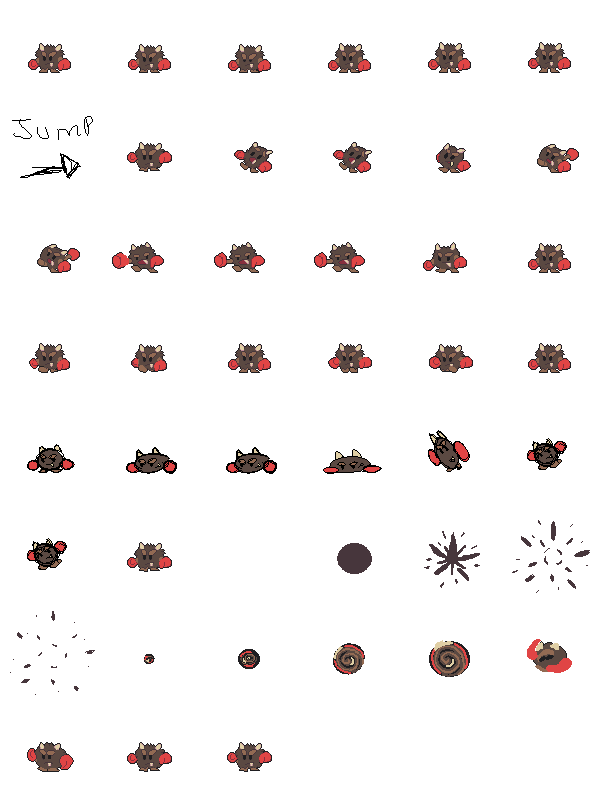
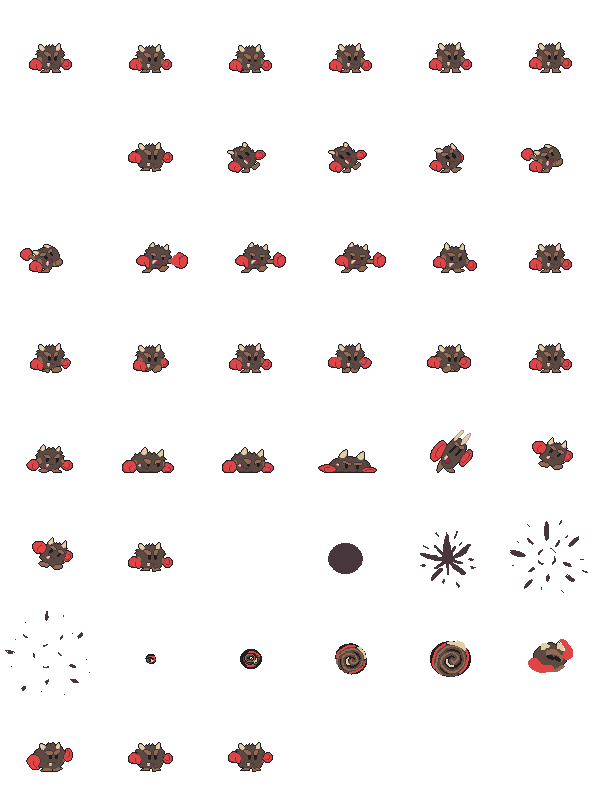
Add imp enemy IA

diff --git a/MonoGameJam1/Components/Battle/Enemies/EnemyImpComponent.cs b/MonoGameJam1/Components/Battle/Enemies/EnemyImpComponent.cs
@@ -9,6 +9,12 @@ using MonoGameJam1.FSM;
 
 namespace MonoGameJam1.Components.Battle.Enemies
 {
+    public enum ImpVelocity
+    {
+        Normal,
+        Fast
+    }
+
     public class EnemyImpComponent : EnemyComponent, ISpawnableEnemy
     {
         //--------------------------------------------------
@@ -72,12 +78,44 @@ namespace MonoGameJam1.Components.Battle.Enemies
             sprite.CreateAnimation("punch", 0.09f);
             sprite.AddFrames("punch", new List<Rectangle>
             {
+                new Rectangle(400, 100, 100, 100),
+                new Rectangle(500, 100, 100, 100),
                 new Rectangle(0, 200, 100, 100),
                 new Rectangle(100, 200, 100, 100),
                 new Rectangle(200, 200, 100, 100),
                 new Rectangle(300, 200, 100, 100),
                 new Rectangle(400, 200, 100, 100),
                 new Rectangle(500, 200, 100, 100),
+            });
+
+            sprite.CreateAnimation("jumpAttack", 0.09f, false);
+            sprite.AddFrames("jumpAttack", new List<Rectangle>
+            {
+                new Rectangle(0, 400, 100, 100),
+                new Rectangle(100, 400, 100, 100),
+                new Rectangle(200, 400, 100, 100),
+                new Rectangle(300, 400, 100, 100),
+                new Rectangle(400, 400, 100, 100),
+                new Rectangle(0, 500, 100, 100),
+                new Rectangle(100, 500, 100, 100),
+            });
+            sprite.AddAttackCollider("jumpAttack", new List<List<Rectangle>>
+            {
+                new List<Rectangle>(),
+                new List<Rectangle>(),
+                new List<Rectangle>(),
+                new List<Rectangle>(),
+                new List<Rectangle> { new Rectangle(-19, -9, 38, 32) },
+                new List<Rectangle> { new Rectangle(-19, -9, 38, 32) },
+                new List<Rectangle> { new Rectangle(-19, -9, 38, 32) },
+            });
+            sprite.AddFramesToAttack("jumpAttack", 4, 5, 6);
+
+            sprite.CreateAnimation("hit", 0.1f, false);
+            sprite.AddFrames("hit", new List<Rectangle>
+            {
+                new Rectangle(200, 100, 100, 100),
+                new Rectangle(300, 100, 100, 100),
             });
 
             sprite.CreateAnimation("dying", 0.1f, false);
@@ -101,11 +139,16 @@ namespace MonoGameJam1.Components.Battle.Enemies
         public override void onAddedToEntity()
         {
             base.onAddedToEntity();
-            _battleComponent.setHp(3);
+            _battleComponent.setHp(10);
 
             // Change move speed
-            platformerObject.maxMoveSpeed = 3000;
-            platformerObject.moveSpeed = 3000;
+            changeSpeed(ImpVelocity.Normal);
+        }
+
+        public override void onHit(Vector2 knockback)
+        {
+            base.onHit(knockback);
+            FSM.changeState(new EnemyImpHit());
         }
 
         public void GoToSpawnState()
@@ -120,7 +163,23 @@ namespace MonoGameJam1.Components.Battle.Enemies
 
             var velocity = _forceMovement ? _forceMovementVelocity.X : 0.0f;
             if (Math.Abs(velocity) > 0.0001f)
-                sprite.spriteEffects = velocity < 0 ? SpriteEffects.None : SpriteEffects.FlipHorizontally;
+                sprite.spriteEffects = velocity < 0 ? SpriteEffects.FlipHorizontally : SpriteEffects.None;
+        }
+
+        public void changeSpeed(ImpVelocity velocity)
+        {
+            switch (velocity)
+            {
+                case ImpVelocity.Normal:
+                    platformerObject.maxMoveSpeed = 3000;
+                    platformerObject.moveSpeed = 3000;
+                    break;
+                case ImpVelocity.Fast:
+                    platformerObject.maxMoveSpeed = 14000;
+                    platformerObject.moveSpeed = 14000;
+                    break;
+                default: break;
+            }
         }
     }
 }

diff --git a/MonoGameJam1/Components/Battle/Enemies/EnemyImpStates.cs b/MonoGameJam1/Components/Battle/Enemies/EnemyImpStates.cs
@@ -1,13 +1,8 @@
-using System;
-using System.Collections.Generic;
-using System.Linq;
-using System.Text;
-using System.Threading.Tasks;
-using Microsoft.Xna.Framework;
-using MonoGameJam1.Components.Player;
+using Microsoft.Xna.Framework;
 using MonoGameJam1.FSM;
-using MonoGameJam1.Managers;
 using Nez;
+using System;
+using MonoGameJam1.Components.Player;
 using Random = Nez.Random;
 
 namespace MonoGameJam1.Components.Battle.Enemies
@@ -39,14 +34,19 @@ namespace MonoGameJam1.Components.Battle.Enemies
 
     public class EnemyImpThinking : EnemyImpStates
     {
+        private readonly bool _lessTime;
         private float _thinkingTime;
+
+        public EnemyImpThinking(bool lessTime = false)
+        {
+            _lessTime = lessTime;
+        }
 
         public override void begin()
         {
             entity.sprite.play("stand");
-            _thinkingTime = 1 + Random.nextFloat(2);
+            _thinkingTime = 0;//_lessTime ? Random.nextFloat(1) : 1 + Random.nextFloat(2);
             Console.WriteLine($"Think: {_thinkingTime}");
-
         }
 
         public override void update()
@@ -102,7 +102,19 @@ namespace MonoGameJam1.Components.Battle.Enemies
             if (entity.canSeeThePlayer())
             {
                 entity.turnToPlayer();
-                fsm.resetStackTo(new EnemyImpAttackPlayer());
+                var distance = entity.distanceToPlayer();
+                if (distance < 55)
+                {
+                    var rand = Random.nextFloat(1);
+                    if (rand < 0.7)
+                    {
+                        fsm.resetStackTo(new EnemyImpAttackPlayer());
+                    }
+                    else
+                    {
+                        fsm.resetStackTo(new EnemyImpJumpAttack());
+                    }
+                }
             }
         }
 
@@ -130,16 +142,61 @@ namespace MonoGameJam1.Components.Battle.Enemies
         {
             if (entity.sprite.Looped)
             {
-                fsm.resetStackTo(new EnemyImpThinking());
+                fsm.resetStackTo(new EnemyImpThinking(true));
             }
         }
     }
 
     public class EnemyImpJumpAttack : EnemyImpStates
     {
+        private bool _jumped;
+
         public override void begin()
         {
-            
+            entity.sprite.play("jumpAttack");
+        }
+
+        private void jump()
+        {
+            var dir = Math.Sign(entity.distanceToPlayer());
+            entity.platformerObject.velocity = new Vector2(0, -300);
+            entity.changeSpeed(ImpVelocity.Fast);
+            entity.forceMovement(Vector2.UnitX * dir);
+        }
+
+        public override void update()
+        {
+            if (!_jumped && entity.sprite.CurrentAnimation == "jumpAttack" && entity.sprite.CurrentFrame >= 4)
+            {
+                _jumped = true;
+                jump();
+            }
+            if (_jumped && entity.sprite.Looped && entity.isOnGround())
+            {
+                fsm.resetStackTo(new EnemyImpThinking(true));
+            }
+        }
+
+        public override void end()
+        {
+            entity.changeSpeed(ImpVelocity.Normal);
+            entity.forceMovement(Vector2.Zero);
+        }
+    }
+
+    public class EnemyImpHit : EnemyImpStates
+    {
+        public override void begin()
+        {
+            entity.sprite.play("hit");
+        }
+
+        public override void update()
+        {
+            if (entity.sprite.Looped)
+            {
+                fsm.resetStackTo(new EnemyImpThinking(true));
+            }
         }
     }
 }

diff --git a/MonoGameJam1/Components/Player/PlayerComponent.cs b/MonoGameJam1/Components/Player/PlayerComponent.cs
@@ -52,8 +52,8 @@ namespace MonoGameJam1.Components.Player
             Pistol2,
             Pistol3,
             Pistol4,
-
-            Shot,
+            
+            Hit,
             Dying
         }
 
@@ -178,7 +178,7 @@ namespace MonoGameJam1.Components.Player
                 {Animations.Pistol3, "pistol3"},
                 {Animations.Pistol4, "pistol4"},
 
-                {Animations.Shot, "shot"},
+                {Animations.Hit, "hit"},
                 {Animations.Dying, "dying"},
             };
 
@@ -471,14 +471,14 @@ namespace MonoGameJam1.Components.Player
 
             // == MISC ANIMATIONS ==
 
-            sprite.CreateAnimation(am[Animations.Shot], 0.1f);
-            sprite.AddFrames(am[Animations.Shot], new List<Rectangle>()
+            sprite.CreateAnimation(am[Animations.Hit], 0.09f, false);
+            sprite.AddFrames(am[Animations.Hit], new List<Rectangle>()
             {
-                new Rectangle(32, 0, 32, 32),
-                new Rectangle(32, 0, 32, 32),
+                new Rectangle(500, 700, 100, 100),
+                new Rectangle(600, 700, 100, 100),
             });
 
-            sprite.CreateAnimation(am[Animations.Dying], 0.09f);
+            sprite.CreateAnimation(am[Animations.Dying], 0.09f, false);
             sprite.AddFrames(am[Animations.Dying], new List<Rectangle>()
             {
                 new Rectangle(0, 800, 100, 100),
@@ -508,6 +508,7 @@ namespace MonoGameJam1.Components.Player
             _battleComponent.battleEntity = this;
             _battleComponent.ImmunityDuration = 0.5f;
             _battleComponent.destroyEntityAction = destroyEntity;
+            _battleComponent.setHp(10);
 
             _weaponSelectionComponent = entity.addComponent<WeaponSelectionComponent>();
         }
@@ -522,6 +523,7 @@ namespace MonoGameJam1.Components.Player
         {
             _knockbackTick = new Vector2(0.06f, 0.04f);
             _knockbackVelocity = new Vector2(knockback.X * 60, -5);
+            FSM.changeState(new HitState());
         }
 
         public void onDeath()

diff --git a/MonoGameJam1/Components/Battle/EnemyComponent.cs b/MonoGameJam1/Components/Battle/EnemyComponent.cs
@@ -231,7 +231,7 @@ namespace MonoGameJam1.Components.Battle
             _sawThePlayer = true;
             var side = distanceToPlayer();
             _currentPatrolSide = Math.Sign(side);
-            sprite.spriteEffects = side > 0 ? SpriteEffects.FlipHorizontally : SpriteEffects.None;
+            sprite.spriteEffects = side > 0 ? SpriteEffects.None : SpriteEffects.FlipHorizontally;
         }
 
         public void unseeThePlayer()
@@ -242,6 +242,11 @@ namespace MonoGameJam1.Components.Battle
         private bool canMove()
         {
             return !_battleComponent.Dying;
+        }
+
+        public bool isOnGround()
+        {
+            return _platformerObject.collisionState.below;
         }
     }
 }

diff --git a/MonoGameJam1/Components/Player/PlayerStates.cs b/MonoGameJam1/Components/Player/PlayerStates.cs
@@ -356,6 +356,22 @@ namespace MonoGameJam1.Components.Player
 
     #endregion
 
+    public class HitState : PlayerState
+    {
+        public override void begin()
+        {
+            entity.SetAnimation(PlayerComponent.Animations.Hit);
+        }
+
+        public override void update()
+        {
+            if (entity.sprite.Looped)
+            {
+                fsm.resetStackTo(new StandState());
+            }
+        }
+    }
+
     public class DyingState : PlayerState
     {
         public override void begin()
